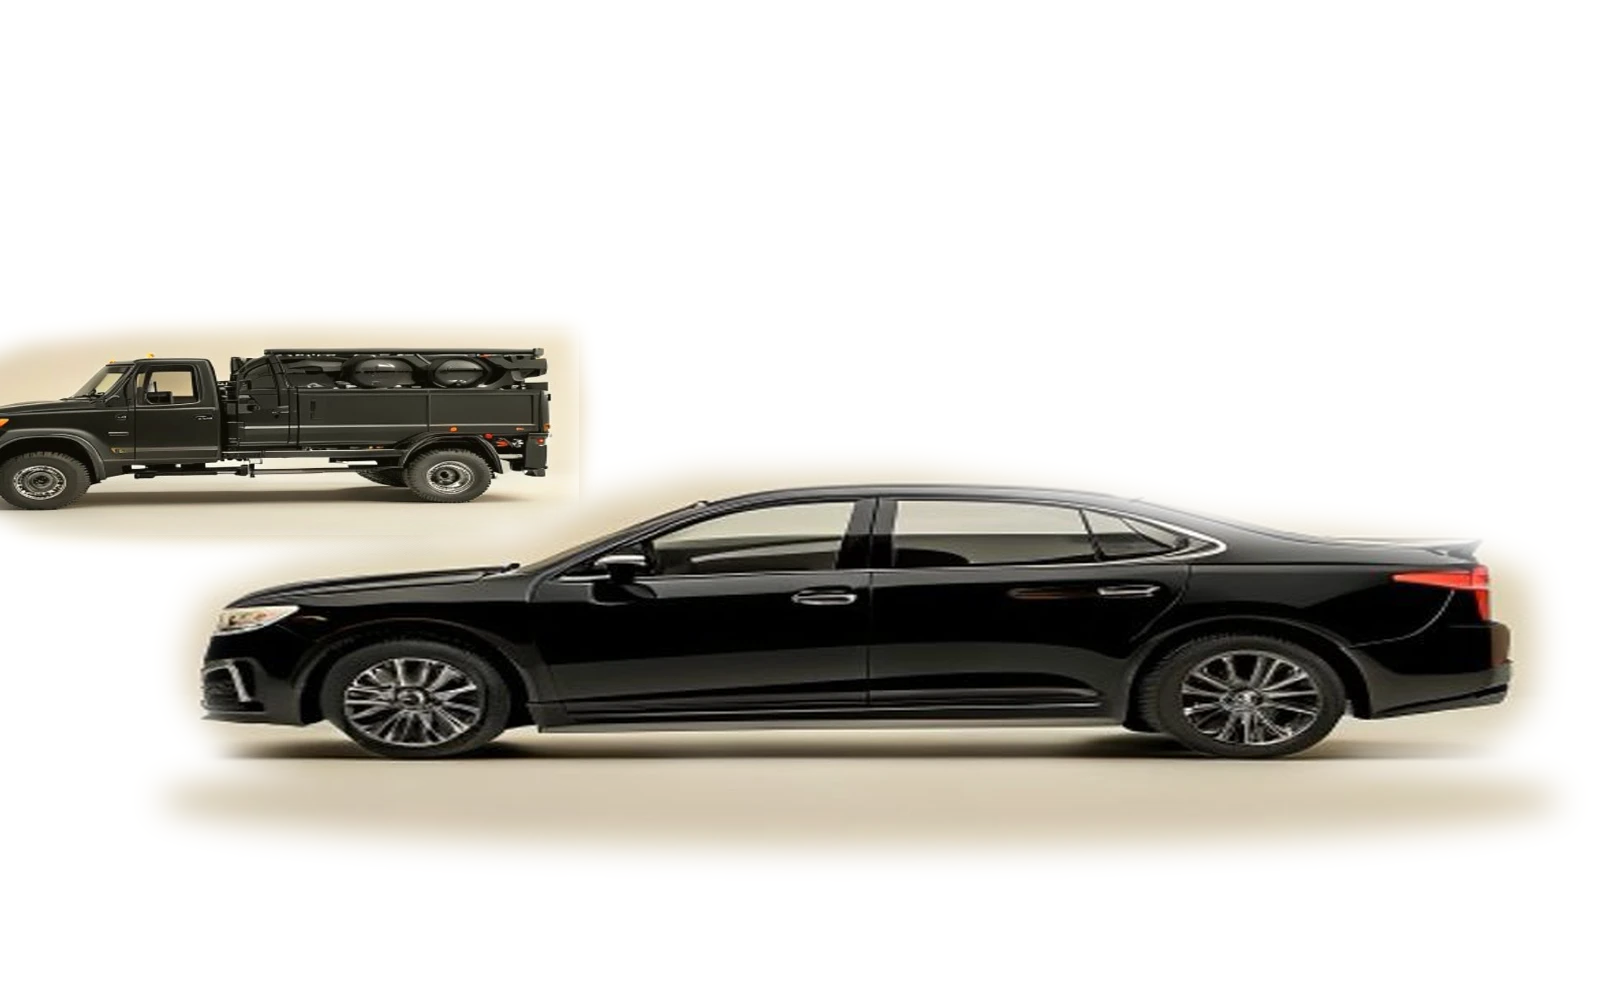
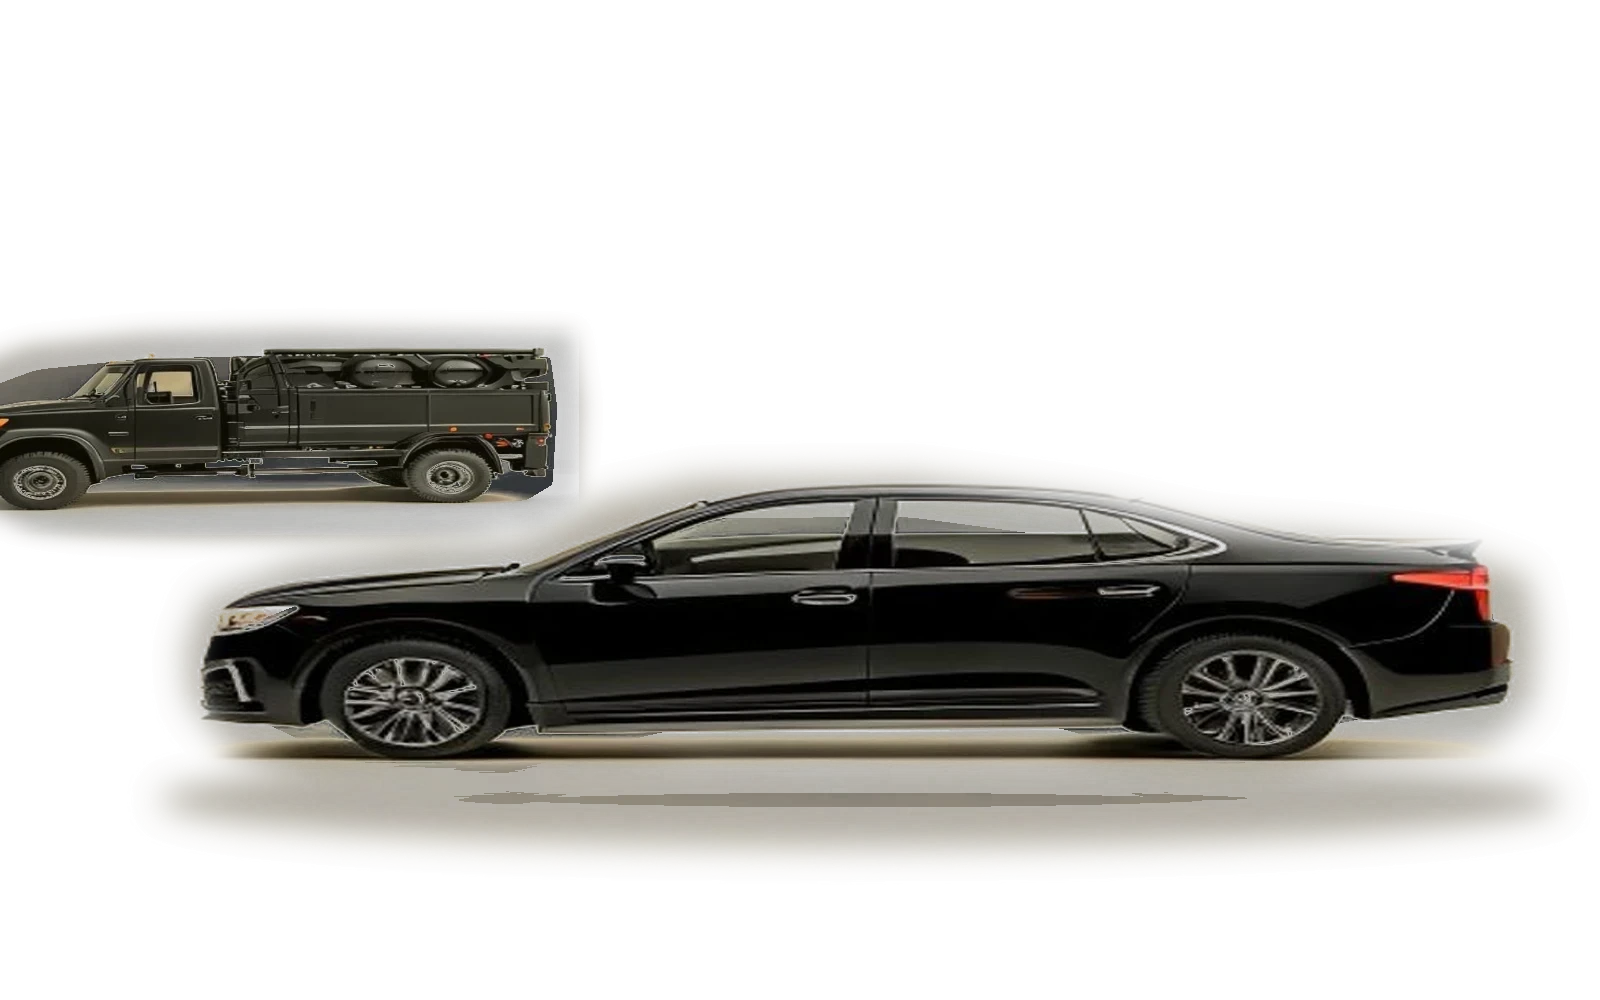
feat(hero): voiture sur fond studio sombre on-brand
Retour client : garder le concept avant/après, changer les images voiture
→ « même voiture, fond sombre on-brand ».

Images : le fond crème #EFEFE5 des deux couches est remplacé par un studio
sombre (radial #1c2634 → #0a0e14) via un keying par flood-fill depuis les
bords (préserve les reflets/vitres enfermés dans la carrosserie), une passe
qui assombrit le reflet du sol crème sur le bas de caisse (sur fond sombre
la carrosserie reflète du sombre), et le nettoyage des halos crème du
découpage (camion + voiture). Tous les repères de dégâts du compositeur
restent valides : la voiture n'a pas bougé. Reste un léger voile crème
résiduel sous l'avant (placeholder IA — voir note assets).

Composant : fond du hero et chrome passés en sombre/clair (le chrome était
encré sur crème → invisible sur sombre), variante reduced-motion idem.
Header : tone « dark » sur l'accueil aussi (plus de sommet clair à encrer).

NB hors périmètre (re-thème décliné) : le logo + CTA du hero doublent
toujours ceux du header, et l'accent lime reste (à passer orange plus tard).

diff --git a/src/components/ui/wreck-reveal-hero.tsx b/src/components/ui/wreck-reveal-hero.tsx
@@ -343,15 +343,19 @@ export default function WreckRevealHero({
 
   /* ----- Theme, carte, signature : memes fenetres que le hero
      precedent — l'architecture landonorris est inchangee. ----------- */
+  // Studio SOMBRE on-brand (retour client : voiture sur fond sombre). Le
+  // fond du composant matche le bord sombre de la nouvelle image voiture,
+  // pour que le retrait de la carte plein cadre → carte ne montre pas de
+  // saut de couleur ; le chrome passe clair (il etait encre sur creme).
   const backgroundColor = useTransform(
     scrollYProgress,
     [0.4, 0.55],
-    ['#EFEFE5', '#282C20'],
+    ['#0b1119', '#0a0e14'],
   );
   const chromeColor = useTransform(
     scrollYProgress,
     [0.4, 0.55],
-    ['#111112', '#EFEFE5'],
+    ['#EBEEE0', '#EBEEE0'],
   );
   const lightPattern = useTransform(scrollYProgress, [0.4, 0.55], [1, 0]);
   const darkPattern = useTransform(scrollYProgress, [0.4, 0.55], [0, 1]);
@@ -394,9 +398,9 @@ export default function WreckRevealHero({
   if (reduced) {
     return (
       <section
-        className={`relative flex min-h-screen items-center justify-center overflow-hidden bg-[#EFEFE5] ${className}`}
+        className={`relative flex min-h-screen items-center justify-center overflow-hidden bg-[#0a0e14] ${className}`}
       >
-        <ContourLayer stroke="rgba(17,17,18,0.07)" />
+        <ContourLayer stroke="rgba(235,238,224,0.07)" />
         <div className="relative aspect-[16/10] w-full max-w-5xl">
           {/* eslint-disable-next-line @next/next/no-img-element -- paire
               pixel-verrouillee : les deux couches doivent etre rendues a
@@ -405,7 +409,7 @@ export default function WreckRevealHero({
           {/* eslint-disable-next-line @next/next/no-img-element -- idem */}
           <img src={revealSrc} alt="" width={1600} height={1000} className="absolute inset-0 h-full w-full object-cover" draggable={false} />
         </div>
-        <div className="absolute left-6 top-24 text-[#111112]">
+        <div className="absolute left-6 top-24 text-[#EBEEE0]">
           <p className="text-2xl tracking-wide" style={{ fontFamily: 'var(--font-instrument), serif', fontStyle: 'italic' }}>
             {brandTop}
           </p>

diff --git a/src/components/ui/SiteHeader.tsx b/src/components/ui/SiteHeader.tsx
@@ -35,9 +35,11 @@ export function SiteHeader({
 
   return (
     // tone light : seul l'accueil a un sommet clair (creme du hero) —
-    // texte encre a l'etat transparent, via globals.css.
+    // Le hero de l'accueil est desormais SOMBRE (voiture sur fond sombre) :
+    // header en tone sombre partout (texte clair a l'etat transparent),
+    // comme les autres pages — plus de sommet clair a encrer.
     <HeaderShell
-      tone={path === '/' ? 'light' : 'dark'}
+      tone="dark"
       menuOpenLabel={c.nav.menuOpen}
       menuCloseLabel={c.nav.menuClose}
       menu={
